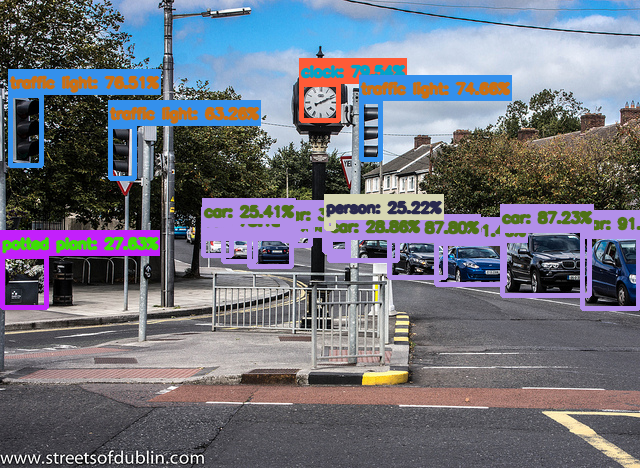
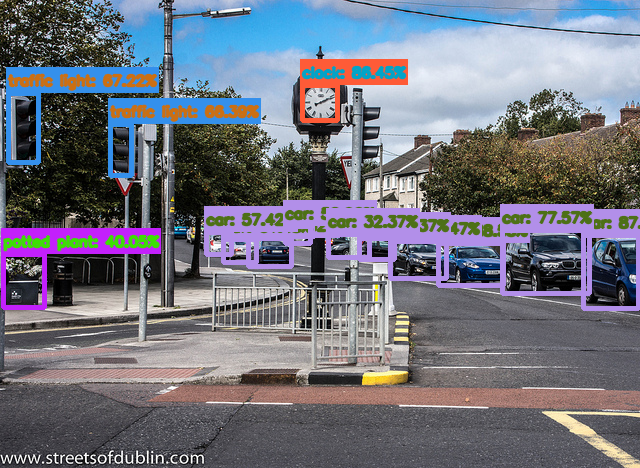
fixed the bug of roi out of bound

diff --git a/chapter7-deploy-yolo-detection/7.5-deploy-yolo-multitask/src/cpp/main.cpp b/chapter7-deploy-yolo-detection/7.5-deploy-yolo-multitask/src/cpp/main.cpp
@@ -8,7 +8,7 @@ using namespace std;
 int main(int argc, char const *argv[])
 {
     /*这么实现目的在于让调用的整个过程精简化*/
-    string onnxPath    = "models/onnx/yolov8x-seg.onnx";
+    string onnxPath    = "models/onnx/yolov8n-seg.onnx";
 
     auto level         = logger::Level::VERB;
     auto params        = model::Params();
@@ -16,7 +16,7 @@ int main(int argc, char const *argv[])
     params.img         = {640, 640, 3};
     params.task        = model::task_type::MULTITASK;
     params.dev         = model::device::GPU;
-    params.prec        = model::precision::FP32;
+    params.prec        = model::precision::FP16;
 
     // 创建一个worker的实例, 在创建的时候就完成初始化
     auto worker   = thread::create_worker(onnxPath, level, params);
@@ -26,7 +26,7 @@ int main(int argc, char const *argv[])
     worker->inference("data/source/airport.jpg");
     worker->inference("data/source/crossroad.jpg");
     worker->inference("data/source/bedroom.jpg");
-    // worker->inference("data/source/crowd.jpg");
+    worker->inference("data/source/crowd.jpg");
 
     return 0;
 }

diff --git a/chapter7-deploy-yolo-detection/7.5-deploy-yolo-multitask/include/trt_multitask.hpp b/chapter7-deploy-yolo-detection/7.5-deploy-yolo-multitask/include/trt_multitask.hpp
@@ -27,11 +27,20 @@ struct bbox {
     cv::Mat   mc;
     
     bbox() = default;
-    bbox(float x0, float y0, float x1, float y1, float conf, int label) : 
+    bbox(float x0, float y0, float x1, float y1, float conf, int label, cv::Mat img) : 
         x0(x0), y0(y0), x1(x1), y1(y1), 
         confidence(conf), flg_remove(false), 
         label(label){
             rect = cv::Rect_<int>(x0, y0, x1 - x0, y1 - y0);
+
+            // 如果rect越界，调整rect的大小
+            if (rect.x + rect.width > img.cols)
+                rect.width = img.cols - rect.x;
+            if (rect.y + rect.height > img.rows)
+                rect.height = img.rows - rect.y;
+            
+            rect.x = rect.x < 0 ? 0 : rect.x;
+            rect.y = rect.y < 0 ? 0 : rect.y;
         }
 };
 

diff --git a/chapter7-deploy-yolo-detection/7.4-quantization-analysis/src/cpp/main.cpp b/chapter7-deploy-yolo-detection/7.4-quantization-analysis/src/cpp/main.cpp
@@ -8,7 +8,7 @@ using namespace std;
 int main(int argc, char const *argv[])
 {
     /*这么实现目的在于让调用的整个过程精简化*/
-    string onnxPath    = "models/onnx/yolov8x.onnx";
+    string onnxPath    = "models/onnx/yolov8n.onnx";
 
     auto level         = logger::Level::INFO;
     auto params        = model::Params();
@@ -16,7 +16,7 @@ int main(int argc, char const *argv[])
     params.img         = {640, 640, 3};
     params.task        = model::task_type::DETECTION;
     params.dev         = model::device::GPU;
-    params.prec        = model::precision::INT8;
+    params.prec        = model::precision::FP32;
 
     // 创建一个worker的实例, 在创建的时候就完成初始化
     auto worker   = thread::create_worker(onnxPath, level, params);

diff --git a/chapter7-deploy-yolo-detection/7.5-deploy-yolo-multitask/src/cpp/trt_multitask.cpp b/chapter7-deploy-yolo-detection/7.5-deploy-yolo-multitask/src/cpp/trt_multitask.cpp
@@ -214,7 +214,7 @@ bool Multitask::postprocess_cpu() {
         preprocess::affine_transformation(preprocess::affine_matrix.reverse, x0, y0, &x0, &y0);
         preprocess::affine_transformation(preprocess::affine_matrix.reverse, x1, y1, &x1, &y1);
         
-        bbox yolo_box(x0, y0, x1, y1, conf, label);
+        bbox yolo_box(x0, y0, x1, y1, conf, label, m_inputImage);
         yolo_box.mc = cv::Mat(1, 32, CV_32F, mc_ptr);
         bboxes.emplace_back(yolo_box);
     }
@@ -283,6 +283,8 @@ bool Multitask::postprocess_cpu() {
         roi = cv::Rect(0, 0, 160, 160 * m_inputImage.rows / m_inputImage.cols);
         roi.y = (160 - roi.height) / 2;
     }
+
+
 
     for (int i = 0;  i < m_bboxes.size(); i ++){
         cv::Mat dest, mask;
